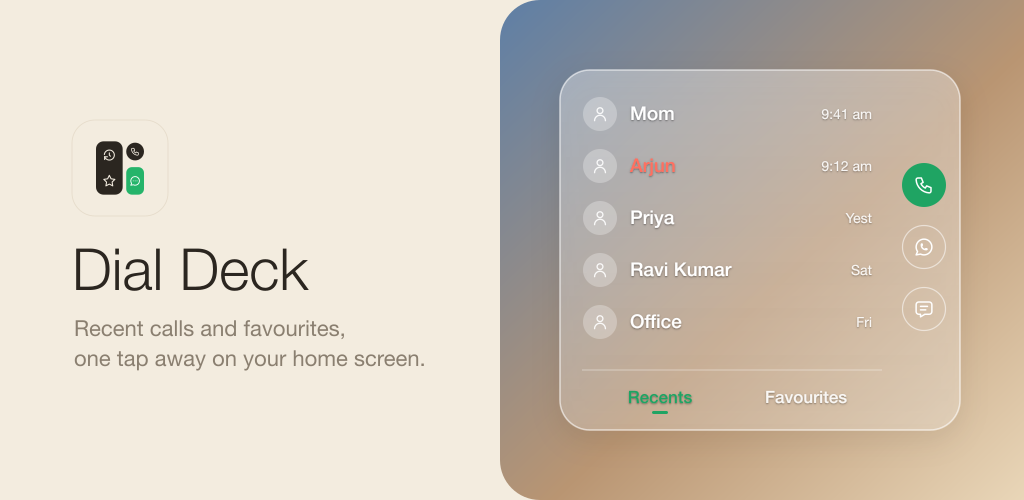
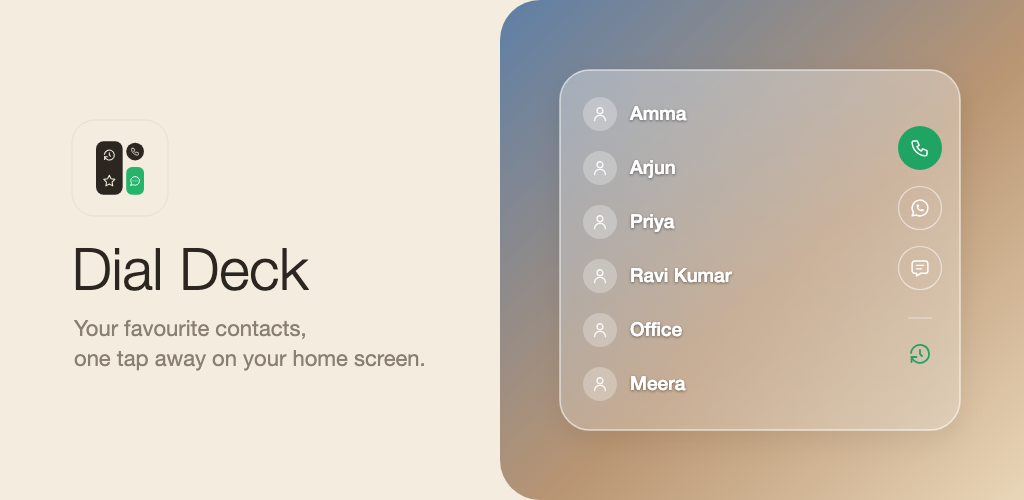
Website for the Play release: Get it on Google Play, favourites only, no Recents or beta steps

diff --git a/index.html b/index.html
@@ -4,13 +4,13 @@
 <meta charset="utf-8">
 <meta name="viewport" content="width=device-width, initial-scale=1, viewport-fit=cover">
 <title>Dial Deck: call, WhatsApp or text in one tap</title>
-<meta name="description" content="A speed dial widget for your Android home screen. Recent calls and favourite contacts, one tap to call, chat on WhatsApp or text. Free, no ads, nothing leaves your phone.">
+<meta name="description" content="A speed dial widget for your Android home screen. Your favourite contacts, one tap to call, chat on WhatsApp or text. Free, no ads, nothing leaves your phone.">
 <meta name="theme-color" content="#F3ECDF">
 <link rel="icon" type="image/png" href="img/favicon.png">
 <link rel="apple-touch-icon" href="img/apple-touch-icon.png">
 <meta property="og:type" content="website">
 <meta property="og:title" content="Dial Deck: your people, one tap away">
-<meta property="og:description" content="A speed dial widget for Android. Call, WhatsApp or text in one tap. Join the free beta.">
+<meta property="og:description" content="A speed dial widget for Android. Call, WhatsApp or text in one tap. Free on Google Play.">
 <meta property="og:image" content="https://chvrolledout.github.io/dialdeck/img/share.png">
 <meta property="og:url" content="https://chvrolledout.github.io/dialdeck/">
 <meta name="twitter:card" content="summary_large_image">
@@ -135,40 +135,38 @@
   <header class="top">
     <img src="img/icon.png" alt="">
     <b>Dial Deck</b>
-    <span class="pill-tag">Free beta</span>
+    <span class="pill-tag">Free</span>
   </header>
 
   <main>
     <div class="hero">
       <h1>Your people, <em>one tap</em> away</h1>
       <p class="lead">A speed dial widget for your Android home screen. Call, WhatsApp or text the people you talk to most, without opening a single app.</p>
-      <a class="btn btn-dark" href="#join">Join the beta</a>
+      <a class="btn btn-dark" id="get" href="https://play.google.com/store/apps/details?id=com.himavarshan.dialdeck" target="_blank" rel="noopener">Get it on Google Play</a>
       <p class="note">Free · No ads · Android 12 and newer</p>
-      <img class="hero-img" src="img/hero.png" width="1080" height="970"
-           alt="The Dial Deck widget on a real home screen: favourite contacts with a bar to call, WhatsApp or text">
+      <img class="hero-img" src="img/hero.png" width="960" height="862"
+           alt="The Dial Deck widget: favourite contacts with a side bar to call, WhatsApp or text">
     </div>
 
-    <section id="join">
-      <h2>Join the beta</h2>
+    <section id="setup">
+      <h2>Get started</h2>
       <div class="card">
         <div class="step">
           <div class="num">1</div>
           <div style="flex:1">
-            <h3>Join the testing group</h3>
-            <p>Google Play only lets members of this group install the beta. Joining is one tap.</p>
-            <a class="btn btn-soft" href="https://groups.google.com/g/dial-deck-testing/" target="_blank" rel="noopener">Open the group</a>
+            <h3>Install from Google Play</h3>
+            <p>Free, no ads, no account.</p>
+            <a class="btn btn-green" href="https://play.google.com/store/apps/details?id=com.himavarshan.dialdeck" target="_blank" rel="noopener">Get Dial Deck</a>
           </div>
         </div>
         <div class="step">
           <div class="num">2</div>
           <div style="flex:1">
-            <h3>Install from Google Play</h3>
-            <p>Use the same Google account. Tap "Become a tester", then download Dial Deck.</p>
-            <a class="btn btn-green" href="https://play.google.com/apps/testing/com.himavarshan.dialdeck" target="_blank" rel="noopener">Get Dial Deck</a>
+            <h3>Add the widget</h3>
+            <p>Open Dial Deck, allow access and tap "Add to home screen". Or long-press your home screen, tap Widgets and add Dial Deck.</p>
           </div>
         </div>
       </div>
-      <p class="note" style="text-align:center">Then long-press your home screen, tap Widgets and add Dial Deck. Or tap "Add to home screen" in the app.</p>
     </section>
 
     <section>
@@ -180,7 +178,7 @@
         </div>
         <div class="feat">
           <div class="ico"><svg viewBox="0 0 24 24"><path d="M12 8v4l2 2"/><path d="M3.05 11a9 9 0 1 1 .5 4"/><path d="M3.55 20v-5h5"/></svg></div>
-          <div><h3>Recents and favourites</h3><p>Your latest calls, missed ones in red, and your starred contacts, in your order or most called first.</p></div>
+          <div><h3>Your favourite contacts</h3><p>Your starred contacts, in your own order, A–Z or Z–A. The clock button opens your phone's call history.</p></div>
         </div>
         <div class="feat">
           <div class="ico"><svg viewBox="0 0 24 24"><path d="M12 3a9 9 0 0 0 0 18c1.1 0 1.5-.8 1.5-1.5s-.5-1.2-.5-2a1.5 1.5 0 0 1 1.5-1.5H17a4 4 0 0 0 4-4C21 6.6 17 3 12 3z"/><path d="M7.5 11.5h.01"/><path d="M10 7.5h.01"/><path d="M14.5 7.5h.01"/></svg></div>
@@ -188,7 +186,7 @@
         </div>
         <div class="feat">
           <div class="ico"><svg viewBox="0 0 24 24"><path d="M13 3L5 14h6l-1 7l8-11h-6z"/></svg></div>
-          <div><h3>Always up to date</h3><p>Recents refresh seconds after a call ends, and new names show up on their own. Uses almost no battery.</p></div>
+          <div><h3>Always up to date</h3><p>New, renamed or starred contacts show up on their own. Uses almost no battery.</p></div>
         </div>
       </div>
     </section>
@@ -197,7 +195,7 @@
       <h2>A closer look</h2>
       <div class="gallery">
         <img src="img/modes.png" width="1080" height="1920" alt="Side bar with Call, WhatsApp and SMS modes" loading="lazy">
-        <img src="img/favourites.png" width="1080" height="1920" alt="Favourites sorted your way" loading="lazy">
+        <img src="img/favourites.png" width="1080" height="1920" alt="Favourites in your own order, A–Z or Z–A" loading="lazy">
         <img src="img/themes.png" width="1080" height="1920" alt="Glass, Paper, Midnight and Aurora themes" loading="lazy">
       </div>
     </section>
@@ -206,7 +204,7 @@
       <h2>Private by design</h2>
       <div class="card private">
         <div class="ico"><svg viewBox="0 0 24 24"><path d="M6 11h12v9H6z"/><path d="M8 11V8a4 4 0 0 1 8 0v3"/></svg></div>
-        <p><b>Nothing leaves your phone</b>Dial Deck has no internet access at all. No accounts, no ads, no tracking. Your calls and contacts are only used to draw the widget.</p>
+        <p><b>Nothing leaves your phone</b>Dial Deck has no internet access at all. No accounts, no ads, no tracking. Your contacts are only used to draw the widget.</p>
       </div>
     </section>
 
@@ -214,8 +212,8 @@
       <h2>Questions</h2>
       <div class="card faq">
         <details>
-          <summary>Why does it ask for call log and contacts?</summary>
-          <p>To show your recent calls and starred contacts in the widget, with their names and photos. Everything is read on your phone and never sent anywhere; the app can't even connect to the internet.</p>
+          <summary>Why does it ask for contacts and phone?</summary>
+          <p>Contacts, to show your starred contacts in the widget with their names and photos. Phone, to place a call when you tap a name. Everything stays on your phone and is never sent anywhere; the app can't even connect to the internet.</p>
         </details>
         <details>
           <summary>Is it really free?</summary>
@@ -224,10 +222,6 @@
         <details>
           <summary>Which phones does it work on?</summary>
           <p>Android 12 or newer, with any launcher that supports widgets: Pixel, Samsung, OnePlus, Vivo, Xiaomi, Niagara and more.</p>
-        </details>
-        <details>
-          <summary>Why do I need to join a group first?</summary>
-          <p>Dial Deck is in a closed beta on Google Play. Google only shows beta apps to people in the testers' group, so step 1 unlocks step 2.</p>
         </details>
         <details>
           <summary>How do I send feedback?</summary>
@@ -244,17 +238,20 @@
   </footer>
 </div>
 
-<!-- Sticky join button; hides while the join steps are on screen -->
-<div class="bar" id="bar"><div class="wrap"><a class="btn btn-green" href="#join">Join the free beta</a></div></div>
+<!-- Sticky Google Play button; hides while the main button or the setup steps are on screen -->
+<div class="bar" id="bar"><div class="wrap"><a class="btn btn-green" href="https://play.google.com/store/apps/details?id=com.himavarshan.dialdeck" target="_blank" rel="noopener">Get it on Google Play</a></div></div>
 
 <script>
   (function () {
     var bar = document.getElementById('bar');
-    var join = document.getElementById('join');
-    if (!('IntersectionObserver' in window) || !bar || !join) return;
-    new IntersectionObserver(function (e) {
-      bar.classList.toggle('hide', e[0].isIntersecting);
-    }, { threshold: 0.2 }).observe(join);
+    var watch = [document.getElementById('get'), document.getElementById('setup')];
+    if (!('IntersectionObserver' in window) || !bar || !watch[0] || !watch[1]) return;
+    var seen = {};
+    var io = new IntersectionObserver(function (entries) {
+      entries.forEach(function (e) { seen[e.target.id] = e.isIntersecting; });
+      bar.classList.toggle('hide', !!(seen.get || seen.setup));
+    }, { threshold: 0.2 });
+    watch.forEach(function (el) { io.observe(el); });
   })();
 </script>
 </body>
